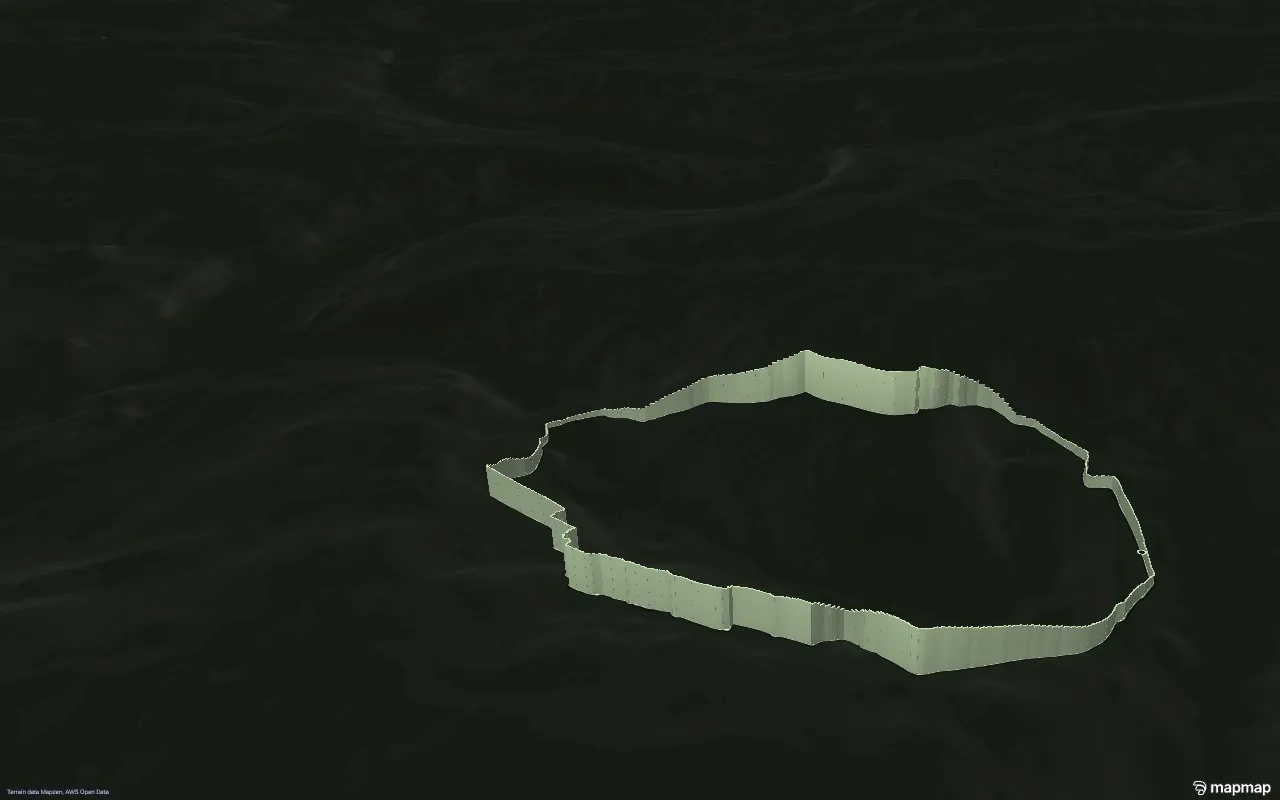
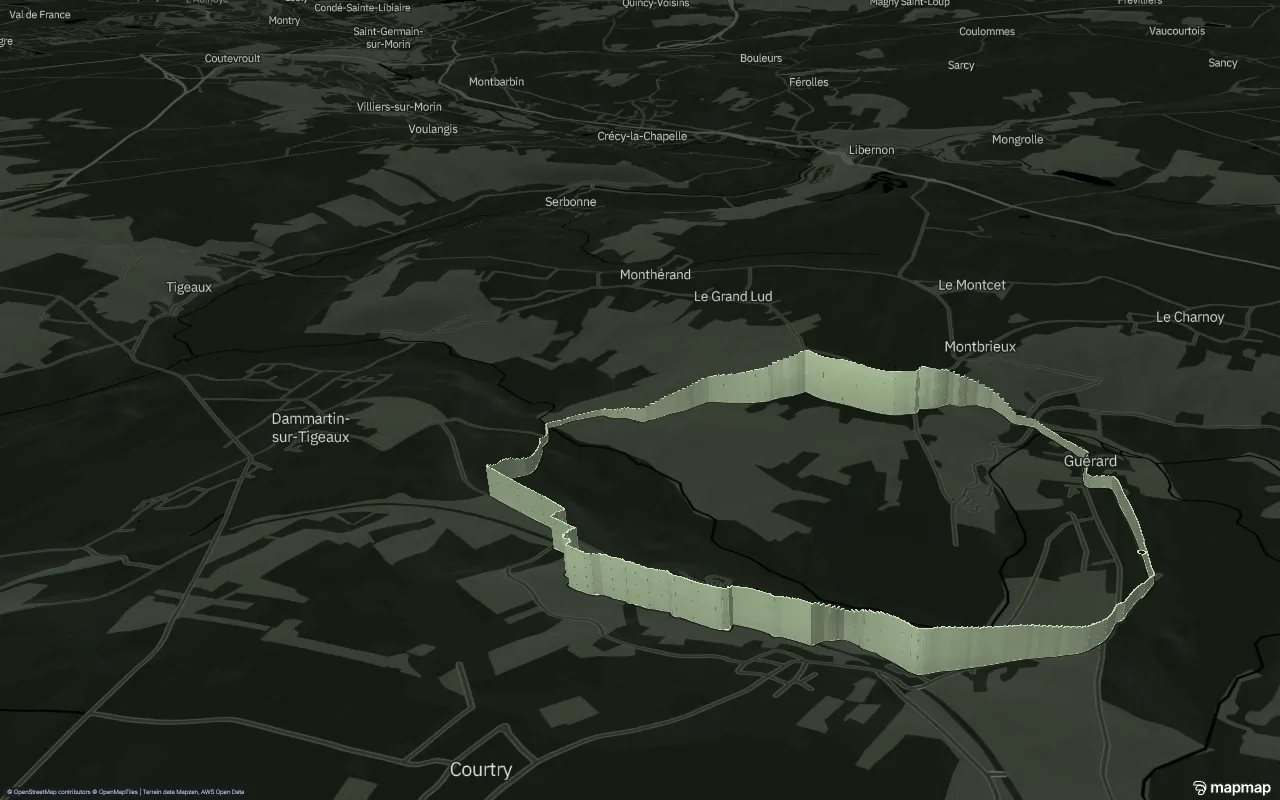
Forêt, routes, rivières et villages sur le relief
Sur le relief ombré, la scène réaffiche la forêt (seule couverture du sol,
un ton plus vert que le fond), l'eau et les rivières, les routes (sans
chemins ni rail) et les noms de villes et villages. Restent masqués : bâti,
points d'intérêt, noms de rues, cartouches routiers, limites. Crédits
OpenStreetMap / OpenMapTiles rétablis au pied de page ; images OG et de
secours régénérées.

En production, ces couches demandent VITE_MAPMAP_KEY (sans clé : relief
seul).

Claude-Session: https://claude.ai/code/session_01XQjRjySaBPTnVFW2jGKrTy

diff --git a/src/map/forestMap.ts b/src/map/forestMap.ts
@@ -1,6 +1,6 @@
 /**
- * La scène MapMap (fond des deux pages) : le relief ombré seul, la boucle en menthe et
- * son mur d'altitude.
+ * La scène MapMap (fond des deux pages) : le relief ombré, la forêt, l'eau, les routes et
+ * les villages ; la boucle en menthe et son mur d'altitude.
  *
  * Deux modes de style :
  * - `VITE_MAPMAP_STYLE_URL` défini → style hébergé (compilateur canonique : il porte
@@ -89,15 +89,37 @@ function applySky(map: maplibregl.Map) {
 const OWN_LAYERS = new Set(["route-wall", "route-casing", "route-line", "route-start"]);
 
 /**
- * Fond « relief seul » : on ne garde du fond de carte que la couleur de fond et l'ombrage
- * du relief ; routes, rivières, bâti et noms de lieux sont masqués. MapLibre ne charge pas
- * les tuiles d'une source dont toutes les couches sont masquées : le fond vectoriel n'est
- * plus téléchargé (et la clé MapMap n'est plus nécessaire à l'affichage).
+ * Ce qu'on garde du fond de carte, sur le relief : la forêt, l'eau et les rivières, les
+ * routes (sans les chemins ni le rail) et les noms de villes et villages. Le reste
+ * (bâti, points d'intérêt, noms de rues, cartouches, limites) est masqué ; MapLibre ne
+ * télécharge pas les tuiles d'une couche masquée.
  */
-function reliefOnly(map: maplibregl.Map) {
+const BASEMAP_KEEP = new Set([
+  "landcover",
+  "water",
+  "waterway",
+  "road-minor-casing",
+  "road-major-casing",
+  "road-minor",
+  "road-major",
+  "road-bridge-casing",
+  "road-bridge",
+  "place-labels",
+]);
+
+/** La forêt : seule couverture du sol affichée, un ton plus vert que le fond. */
+const FOREST_COLOR = mix(palette.charcoal, palette.sage, 0.22);
+
+function trimBasemap(map: maplibregl.Map) {
   for (const layer of map.getStyle().layers ?? []) {
-    if (OWN_LAYERS.has(layer.id) || layer.type === "background" || layer.type === "hillshade") continue;
-    if (map.getLayoutProperty(layer.id, "visibility") !== "none") map.setLayoutProperty(layer.id, "visibility", "none");
+    const keep = OWN_LAYERS.has(layer.id) || BASEMAP_KEEP.has(layer.id) || layer.type === "background" || layer.type === "hillshade";
+    const visibility = keep ? "visible" : "none";
+    if (map.getLayoutProperty(layer.id, "visibility") !== visibility) map.setLayoutProperty(layer.id, "visibility", visibility);
+  }
+  if (map.getLayer("landcover")) {
+    map.setFilter("landcover", ["==", ["get", "class"], "wood"]);
+    map.setPaintProperty("landcover", "fill-color", FOREST_COLOR);
+    map.setPaintProperty("landcover", "fill-opacity", 0.8);
   }
 }
 
@@ -239,7 +261,7 @@ export async function createForestMap({ container, mobile }: ForestMapOptions): 
 
   const onStyle = () => {
     applySky(map);
-    reliefOnly(map);
+    trimBasemap(map);
     if (styleMode === "sdk-dev") tuneDevHillshade(map);
   };
   map.on("style.load", onStyle);

diff --git a/index.html b/index.html
@@ -156,7 +156,9 @@
       <p class="wordmark wordmark--ink">{{fullName}}</p>
       <ul class="caption site-footer__list">{{html:footerCredits}}</ul>
       <p class="caption site-footer__credits">
-        Carte : <a class="link-serif" href="https://mapmap.ai">MapMap</a> · Relief : Mapzen, AWS Open Data.
+        Carte : <a class="link-serif" href="https://mapmap.ai">MapMap</a> · ©
+        <a class="link-serif" href="https://www.openstreetmap.org/copyright">OpenStreetMap contributors</a> · © OpenMapTiles ·
+        Relief : Mapzen, AWS Open Data.
       </p>
       <div class="caption site-footer__caption">
         <p>{{commune}} · {{departement}}</p>

diff --git a/README.md b/README.md
@@ -26,8 +26,9 @@ npm run build           # typecheck + build prod dans dist/
 npm run preview         # sert dist/
 ```
 
-La scène 3D n'affiche que le relief, qui ne demande pas de clé : elle s'affiche aussi en
-production sans `VITE_MAPMAP_KEY`.
+En local, la carte fonctionne **sans clé** (les tuiles sans clé servent localhost).
+En production, sans `VITE_MAPMAP_KEY`, la scène n'affiche que le relief (ni forêt, ni
+routes, ni rivières, ni villages).
 
 ## Variables d'environnement
 
@@ -36,7 +37,7 @@ Copier `.env.example` en `.env` (en prod : variables du projet Vercel).
 | Variable | Où | Rôle |
 |---|---|---|
 | `VITE_INSCRIPTION_ENDPOINT` | navigateur | Adresse qui reçoit les inscriptions (ci-dessous). Vide → bouton désactivé. |
-| `VITE_MAPMAP_KEY` | navigateur | Clé MapMap restreinte à l'origine du site. La scène n'affiche que le relief (sans clé, rien ne manque à l'écran) ; à mettre si l'on réaffiche le fond de carte. |
+| `VITE_MAPMAP_KEY` | navigateur | Clé MapMap restreinte à l'origine du site. **Nécessaire en prod** pour la forêt, les routes, les rivières et les villages (sans elle : relief seul). |
 | `VITE_MAPMAP_STYLE_URL` | navigateur | Style hébergé, écrit dans `.env.local` par `npm run create:style`. |
 | `SITE_URL` | build | URL publique (rend `og:image` absolue). |
 | `MAPMAP_API_KEY` | scripts uniquement | `prepare:route`, `create:style`, `static:map`. Jamais dans le bundle : Vite n'expose que `VITE_*`. |
@@ -120,14 +121,16 @@ carte :
 - MapLibre + SDK (~1 Mo) sont un chunk séparé, chargé à la première interaction ou
   3,5 s après le chargement ; avant, le tracé est dessiné en SVG à la même place.
   Tout s'arrête quand aucune des deux pages n'est à l'écran ou que l'onglet est caché.
-- **Relief seul** : du fond de carte, on ne garde que la couleur de fond et l'ombrage du
-  relief (`reliefOnly`, `src/map/forestMap.ts`) ; routes, rivières et noms de lieux
-  sont masqués, et leurs tuiles ne sont donc pas téléchargées.
+- **Fond épuré** (`trimBasemap`, `src/map/forestMap.ts`) : sur le relief ombré, on ne
+  garde que la forêt (seule couverture du sol affichée), l'eau et les rivières, les
+  routes (sans chemins ni rail) et les noms de villes et villages ; bâti, points
+  d'intérêt, noms de rues, cartouches et limites sont masqués (leurs tuiles ne sont pas
+  téléchargées).
 - Thème dans `src/map/theme.ts`. Sans `VITE_MAPMAP_STYLE_URL`, repli sur le compilateur
   réduit du SDK (qui refuse le bloc `terrain`) : relief et ombrage demandés au SDK.
-- Sans clé (`VITE_MAPMAP_KEY`) hors localhost, l'en-tête du fond vectoriel est refusé
-  (403, avertissement `basemap-forbidden` en console) ; l'affichage n'en dépend pas
-  (relief seul).
+- Sans clé (`VITE_MAPMAP_KEY`) hors localhost, le fond vectoriel est refusé (403) :
+  forêt, routes, rivières et villages disparaissent, il reste le relief, la boucle et
+  son mur.
 - Logo MapMap (bas droite) et attribution (bas gauche) : jamais masqués ni recouverts
   (voile de lisibilité placé sous les coins de contrôle, bas des pages laissé libre).
 
